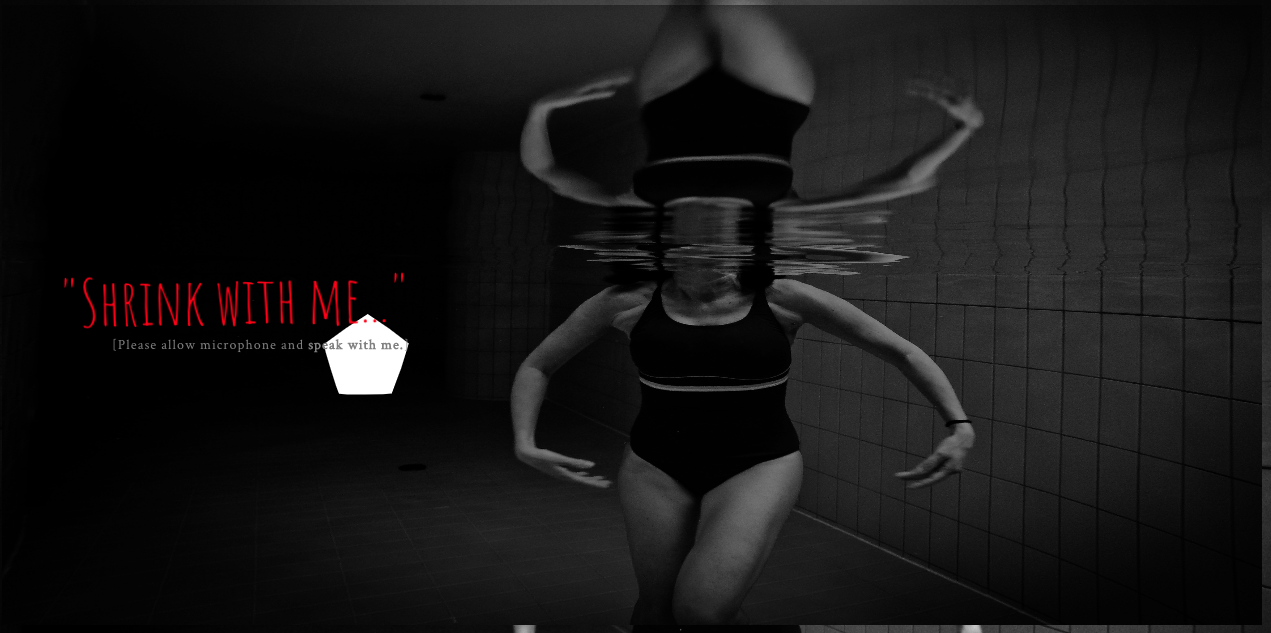
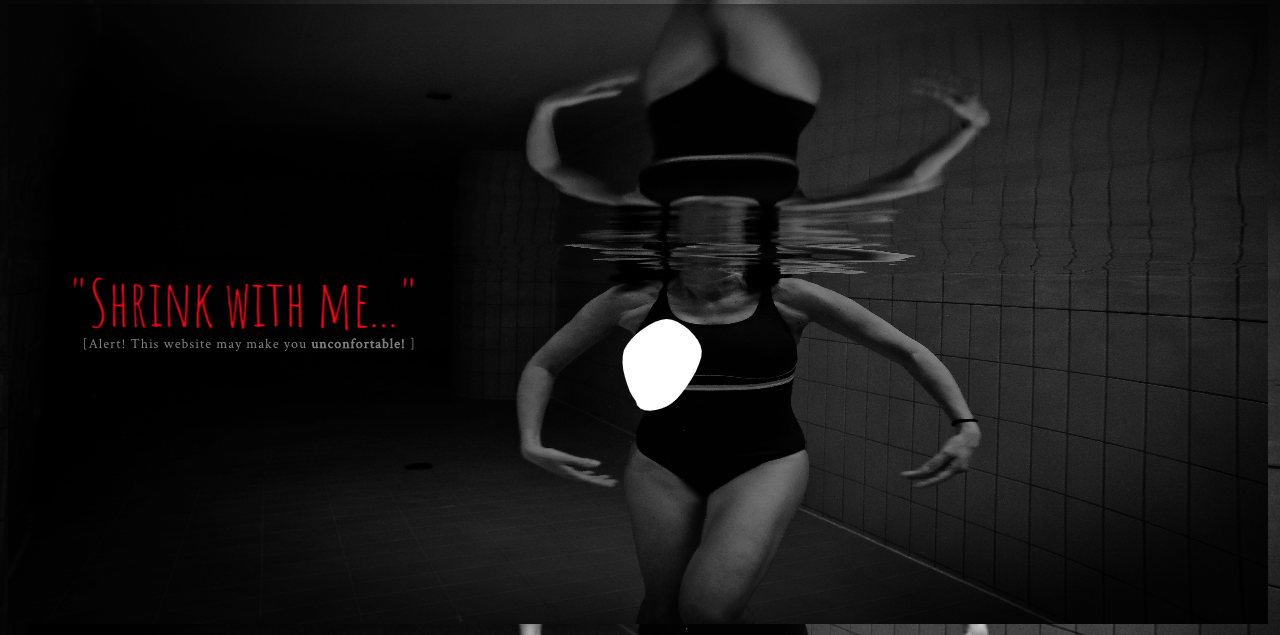
change screenshots, add meta tag

diff --git a/end.html b/end.html
@@ -3,6 +3,9 @@
 <head>
    <title>Shrink with me</title>
    <meta charset="utf-8">
+   <meta name="viewport" content="width=device-width, initial-scale=1.0">
+   <meta name="author" content="UGLYKIKI">
+   <meta property="og:image" content="assets/screenshot/screenshot03.png">
    <script src="js/p5.min.js"></script>
    <script src="js/addons/p5.dom.js"></script>
    <script src="js/addons/p5.sound.js"></script>
